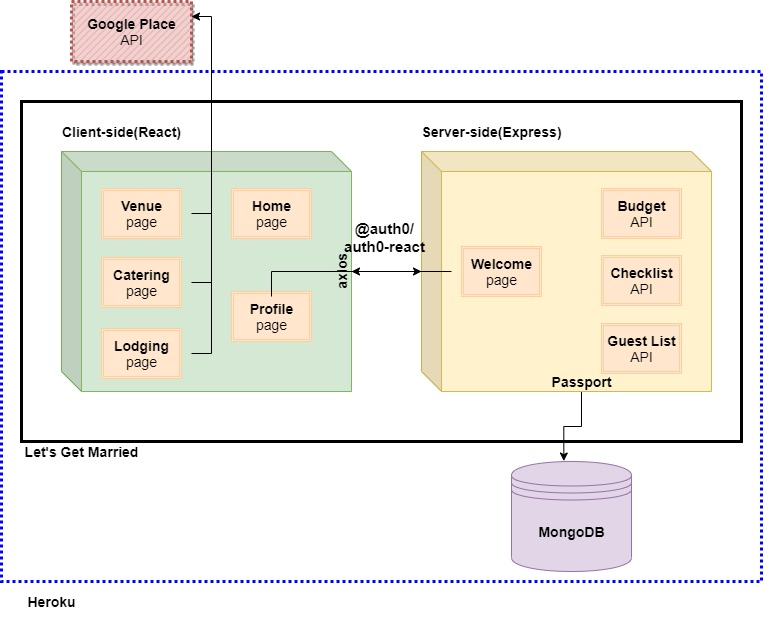
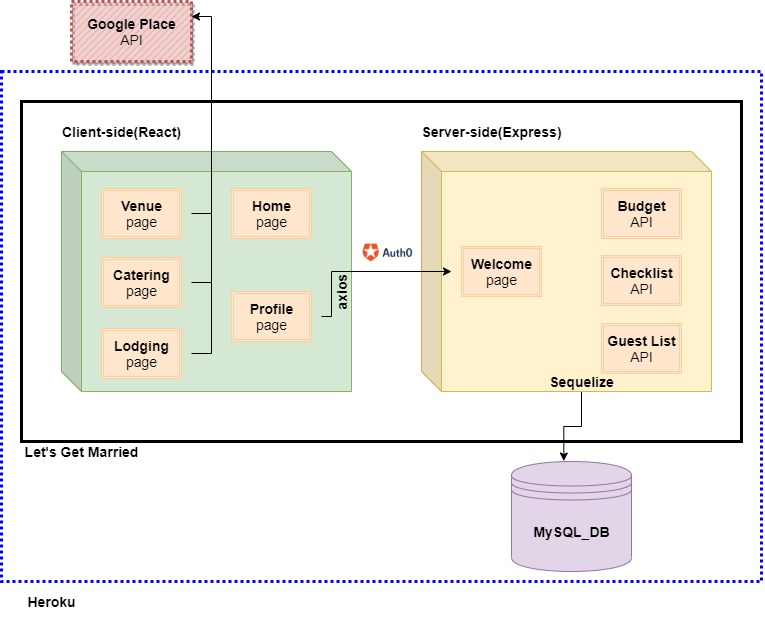
add final readme

Changed region(s): [[0.4209, 0.3344, 0.5412, 0.5168], [0.6915, 0.8208, 0.8118, 0.8816], [0.7216, 0.608, 0.8118, 0.6384]]

diff --git a/README.md b/README.md
@@ -25,6 +25,7 @@
   - [Core Node Dependencies](#core-node-depencencies)
 - [Future Development](#future-development)
 - [Team Members](#team-members)
+- [Photo Credits](#photo-credits)
 
 ---
 ## Project Description
@@ -129,8 +130,6 @@ Once all dependencies are installed run `npm run start` to start the application
 
 - Node.js
 - React.js
-- Mongoose DB
-- Axios
 - Google Maps API
 - Google Places API
 - Google Geolocation API
@@ -141,9 +140,8 @@ Once all dependencies are installed run `npm run start` to start the application
 The dependencies listed below are all the `NPM packages` used throughout this project.
 
 - axios
-- bcryptjs
-- cors
-- dotenv
+- MySQL
+- Sequalize
 - express
 - passport
 - react-router-dom
@@ -157,9 +155,9 @@ The dependencies listed below are all the `NPM packages` used throughout this pr
 
 For `future` development, we would like to incorporate the following feature `enhancements` into our web application:
 
-- 
-- 
-- 
+- Add checklist page and saved data to pass through DB
+- Make guest list and budget pages to save data to pass    through DB
+- Modify current elements to allow deletions for map pins, budget items, guest list, and checklist items.
 
 ---
 
@@ -171,5 +169,12 @@ For `future` development, we would like to incorporate the following feature `en
 - [Lisa Van Huijkelom](https://github.com/lvv5040)
 
 ---
+## Photo Credits
+* https://unsplash.com/@keebarber
+* https://unsplash.com/@anetakpawlik
+* https://unsplash.com/@viktortalashuk
+* https://www.charletonchurchill.com/https://www.charletonchurchill.com/mount-everest-base-camp-adventure-wedding-elopement/
+* https://www.allisonkellyphoto.com/weddings
+* https://www.bdfkphotography.com/
 
 [Table of Contents](#table-of-contents)
